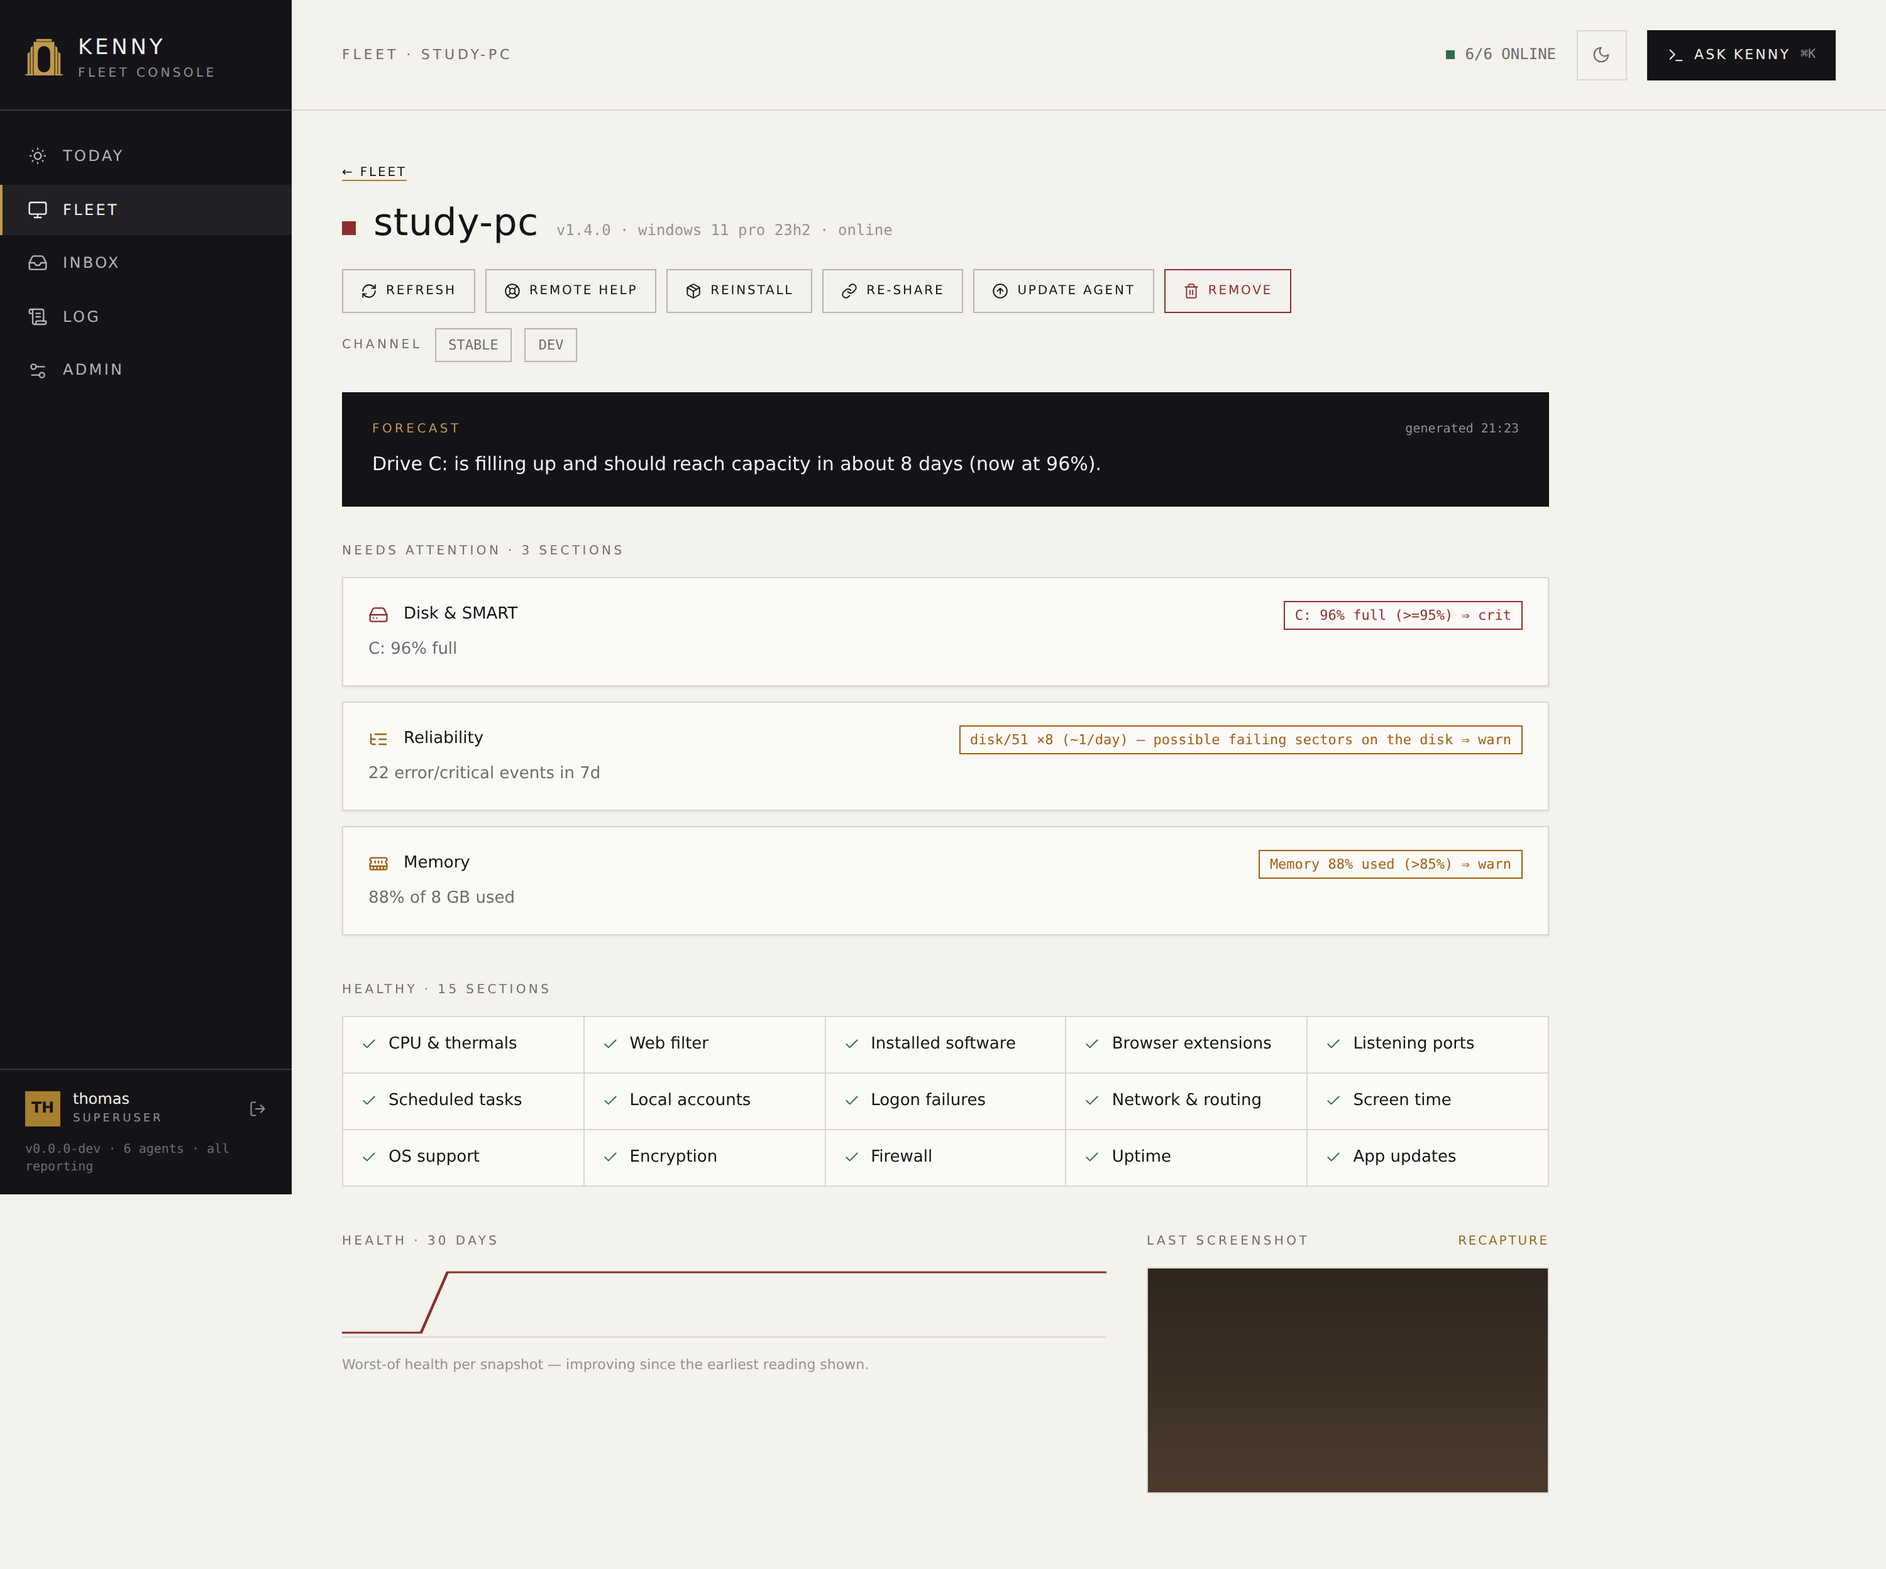
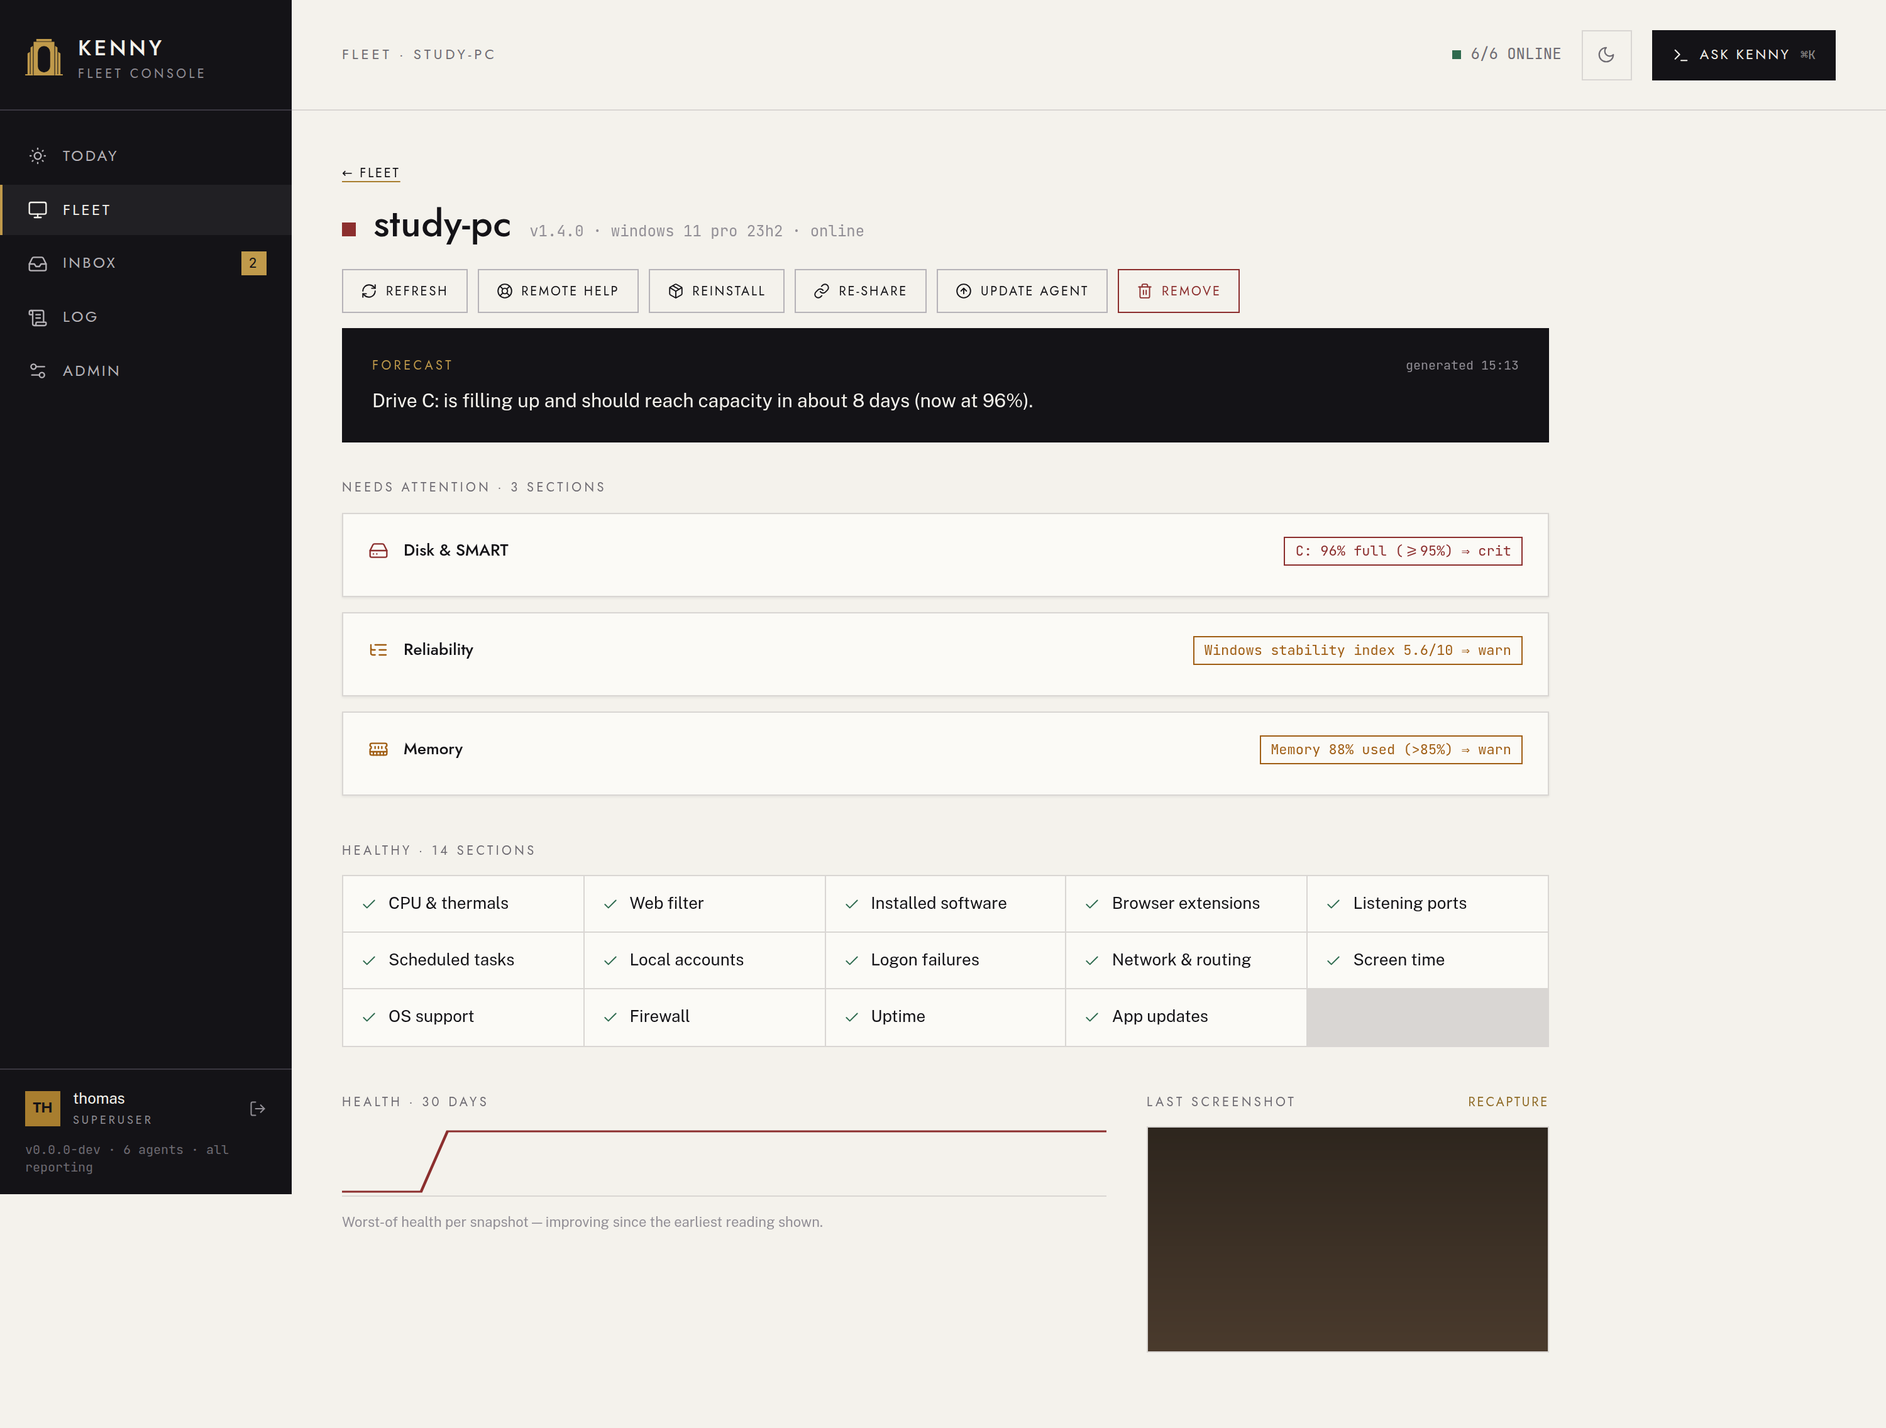
Drop the channel selector from the host page
The release channel is a fleet-operations setting for running a dev test
PC, not a per-host action, and the host page is the view a non-developer
reads. The selector also showed the channel the running binary was built
as rather than the desired channel UPDATE AGENT resolves from, which hid
that a host was set to dev. The desired channel stays settable per agent
in Admin -> Updates, which shows built and desired side by side.

This replaces the host-page `desired_channel` field added in the previous
commit; `GET /api/agent/{id}` is back to its original shape.

Docs: dashboard.md (host actions), setup.md (dev channel now serves the
highest release across stable and dev); host and reliability screenshots
regenerated.

Claude-Session: https://claude.ai/code/session_014MvYUfoKfMGc2bQbjZqdYJ

diff --git a/kenny-web/src/views/host/ActionRow.tsx b/kenny-web/src/views/host/ActionRow.tsx
@@ -5,7 +5,7 @@ import { api } from '../../api/client'
 import type { Me } from '../../api/types'
 import Modal from '../../components/Modal/Modal'
 import { RefreshCw, LifeBuoy, Package, Link as LinkIcon, ArrowUpCircle, Trash2, X, ICON_STROKE_WIDTH } from '../../components/icons'
-import { useRefreshAgent, useRemoteHelp, useUpdateAgent, useRemoveAgent, useSetChannel, useShareLink } from './api'
+import { useRefreshAgent, useRemoteHelp, useUpdateAgent, useRemoveAgent, useShareLink } from './api'
 import { toShareOs } from './format'
 import type { ShareLinkResult } from './types'
 import styles from './ActionRow.module.css'
@@ -19,29 +19,25 @@ export interface ActionRowProps {
    * the reinstall link so the operator doesn't fall back to `uname -m`
    * auto-detection for a box that already told us its arch. */
   arch?: string
-  /** The desired channel — what UPDATE AGENT installs from, and what the
-   * selector highlights. */
-  channel?: string
-  /** What the running binary was built as (`meta.channel`). */
-  builtChannel?: string
 }
 
 /**
  * The host action button row: REFRESH, REMOTE HELP, REINSTALL, RE-SHARE,
- * UPDATE AGENT, REMOVE, and the stable/dev channel selector.
+ * UPDATE AGENT and REMOVE. The release channel is set in Admin → Updates, not
+ * here: it is a fleet-operations setting, not a per-host action.
  *
  * Only REFRESH and REMOTE HELP floor at `user` server-side
  * (`/api/agent/{id}/refresh`, `/api/agent/{id}/remotehelp`, both `scoped`).
  * Everything else is operator+: `/api/agents/{id}/installer` and
- * `/api/agents/share-link` (`distribution.py`), `/api/agents/{id}/update` and
- * `/api/agent/{id}/channel` (`op_scoped`), and `DELETE /api/agent/{id}` (`op`).
+ * `/api/agents/share-link` (`distribution.py`), `/api/agents/{id}/update`
+ * (`op_scoped`), and `DELETE /api/agent/{id}` (`op`).
  * So a scoped `user` sees the first two and nothing else — this list mirrors
  * those `min_role` values, and `ActionRow.test.tsx` fails if the two drift.
  * Hiding is a courtesy, not the boundary: the server refuses regardless. But a
  * REMOVE button that offers to purge a host and is guaranteed to 403 is worse
  * than no button at all.
  */
-export default function ActionRow({ agentId, os, arch, channel, builtChannel }: ActionRowProps) {
+export default function ActionRow({ agentId, os, arch }: ActionRowProps) {
   const navigate = useNavigate()
   const [message, setMessage] = useState<{ text: string; error: boolean } | null>(null)
   const [confirmRemove, setConfirmRemove] = useState(false)
@@ -60,7 +56,6 @@ export default function ActionRow({ agentId, os, arch, channel, builtChannel }: 
   const remoteHelp = useRemoteHelp(agentId)
   const update = useUpdateAgent(agentId)
   const remove = useRemoveAgent()
-  const setChannel = useSetChannel(agentId)
   const shareLink = useShareLink(agentId)
 
   function doRefresh() {
@@ -166,26 +161,6 @@ export default function ActionRow({ agentId, os, arch, channel, builtChannel }: 
       </div>
 
       {message && <p className={`${styles.message}${message.error ? ` ${styles.messageError}` : ''}`}>{message.text}</p>}
-
-      {isOperator && (
-        <div className={styles.channelRow}>
-          <span className={styles.channelLabel}>CHANNEL</span>
-          {(['stable', 'dev'] as const).map((c) => (
-            <button
-              key={c}
-              type="button"
-              className={`${styles.channelButton}${channel === c ? ` ${styles.channelActive}` : ''}`}
-              disabled={setChannel.isPending}
-              onClick={() => setChannel.mutate(c)}
-            >
-              {c.toUpperCase()}
-            </button>
-          ))}
-          {builtChannel && channel && builtChannel !== channel && (
-            <span className={styles.channelNote}>running a {builtChannel} build</span>
-          )}
-        </div>
-      )}
 
       <Modal open={confirmRemove} onClose={() => setConfirmRemove(false)} labelledBy="remove-host-title" width={440}>
         <div className={styles.modalHeader}>

diff --git a/kenny-web/src/views/host/ActionRow.test.tsx b/kenny-web/src/views/host/ActionRow.test.tsx
@@ -36,8 +36,8 @@ beforeEach(() => {
  * This row is the client half of a seam: which buttons it draws must match the
  * `min_role` on the routes behind them. Only REFRESH and REMOTE HELP floor at
  * `user` (`scoped`); everything else is operator+. When only REINSTALL and
- * RE-SHARE were gated, a scoped `user` was offered UPDATE AGENT, the channel
- * selector and a REMOVE button that opens a "this cannot be undone" dialog and
+ * RE-SHARE were gated, a scoped `user` was offered UPDATE AGENT and a REMOVE
+ * button that opens a "this cannot be undone" dialog and
  * then 403s. If either side moves, these lists stop matching.
  */
 const USER_ACTIONS = ['REFRESH', 'REMOTE HELP']
@@ -52,8 +52,6 @@ describe('ActionRow — operator gating', () => {
     await waitFor(() => expect(apiGetMock).toHaveBeenCalledWith('/api/me'))
     for (const label of USER_ACTIONS) expect(screen.getByText(label)).toBeInTheDocument()
     for (const label of OPERATOR_ACTIONS) expect(screen.queryByText(label)).not.toBeInTheDocument()
-    // PUT /api/agent/{id}/channel is operator-scoped too, so the selector goes with them.
-    expect(screen.queryByText('CHANNEL')).not.toBeInTheDocument()
   })
 
   it('offers an operator the whole row', async () => {
@@ -65,29 +63,8 @@ describe('ActionRow — operator gating', () => {
     for (const label of [...USER_ACTIONS, ...OPERATOR_ACTIONS]) {
       expect(screen.getByText(label)).toBeInTheDocument()
     }
-    expect(screen.getByText('CHANNEL')).toBeInTheDocument()
-  })
-})
-
-describe('ActionRow — channel selector', () => {
-  beforeEach(() => {
-    apiGetMock.mockResolvedValue({ user_id: '1', username: 'thomas', role: 'operator', hosts: [], is_shared_token: false })
-  })
-
-  it('highlights the desired channel and names a differing build', async () => {
-    renderRow({ channel: 'dev', builtChannel: 'stable' })
-
-    const dev = await screen.findByRole('button', { name: 'DEV' })
-    expect(dev.className).toMatch(/channelActive/)
-    expect(screen.getByRole('button', { name: 'STABLE' }).className).not.toMatch(/channelActive/)
-    expect(screen.getByText('running a stable build')).toBeInTheDocument()
-  })
-
-  it('says nothing extra when the build matches the desired channel', async () => {
-    renderRow({ channel: 'dev', builtChannel: 'dev' })
-
-    await screen.findByRole('button', { name: 'DEV' })
-    expect(screen.queryByText(/running a/)).not.toBeInTheDocument()
+    // The release channel is Admin → Updates' concern, never a host action.
+    expect(screen.queryByText('CHANNEL')).not.toBeInTheDocument()
   })
 })
 

diff --git a/kenny-web/src/views/FleetHost.test.tsx b/kenny-web/src/views/FleetHost.test.tsx
@@ -92,37 +92,6 @@ beforeEach(() => {
 })
 
 /**
- * Joined seam with `api_agent`'s `desired_channel` (pinned server-side by
- * `test_trigger_update_uses_agent_desired_channel`): the selector must show the
- * channel UPDATE AGENT installs from, not the one the running binary was built
- * as. Showing the built channel let a host read STABLE while an update pushed
- * a dev build.
- */
-describe('FleetHost — channel selector', () => {
-  it('shows the desired channel, not the built one', async () => {
-    apiGetMock.mockImplementation((url: string) => {
-      if (url === '/api/me') {
-        return Promise.resolve({ user_id: '1', username: 'thomas', role: 'operator', hosts: [], is_shared_token: false })
-      }
-      if (url.startsWith('/api/agent/')) {
-        return Promise.resolve({
-          ...AGENT_DETAIL,
-          meta: { ...AGENT_DETAIL.meta, channel: 'stable' },
-          desired_channel: 'dev',
-        })
-      }
-      return Promise.resolve({})
-    })
-
-    renderAt('/fleet/crit-pc', null)
-
-    const dev = await screen.findByRole('button', { name: 'DEV' })
-    expect(dev.className).toMatch(/channelActive/)
-    expect(screen.getByText('running a stable build')).toBeInTheDocument()
-  })
-})
-
-/**
  * Joined seam: the `target` the server puts on a flagged-section row and the
  * host page's reading of `?section=` (`FleetHost`) have to agree, or a click
  * on a flagged section lands the reader on the machine and leaves them to find

diff --git a/kenny-web/src/views/host/ActionRow.module.css b/kenny-web/src/views/host/ActionRow.module.css
@@ -40,44 +40,6 @@
   color: var(--danger);
 }
 
-.channelRow {
-  display: flex;
-  align-items: center;
-  gap: 10px;
-  margin-bottom: 24px;
-}
-
-.channelLabel {
-  font-family: var(--font-display);
-  font-size: 10px;
-  letter-spacing: var(--track-caps-wide);
-  color: var(--text-muted);
-}
-
-.channelButton {
-  font-family: var(--font-mono);
-  font-size: 11px;
-  padding: 4px 10px;
-  border: 1px solid var(--border-mid);
-  background: transparent;
-  color: var(--text-muted);
-}
-.channelButton:disabled {
-  cursor: default;
-}
-
-.channelNote {
-  font-family: var(--font-mono);
-  font-size: 11px;
-  color: var(--text-muted);
-}
-
-.channelActive {
-  color: var(--text-body);
-  border-color: var(--border-strong);
-  background: var(--surface-inset);
-}
-
 .confirmBody {
   padding: 24px;
 }

diff --git a/kenny-web/src/views/host/api.ts b/kenny-web/src/views/host/api.ts
@@ -53,15 +53,6 @@ export function useUpdateAgent(agentId: string) {
   })
 }
 
-export function useSetChannel(agentId: string) {
-  const invalidate = useInvalidateAgent(agentId)
-  return useMutation({
-    mutationFn: (channel: 'stable' | 'dev') =>
-      api.put<{ ok: boolean }>(`/api/agent/${agentId}/channel`, { channel }),
-    onSuccess: () => invalidate(),
-  })
-}
-
 export function useRemoveAgent() {
   return useMutation({
     mutationFn: (agentId: string) => api.delete<{ ok?: boolean }>(`/api/agent/${agentId}`),

diff --git a/kenny-web/src/views/FleetHost.tsx b/kenny-web/src/views/FleetHost.tsx
@@ -103,13 +103,7 @@ export default function FleetHost() {
         </span>
       </div>
 
-      <ActionRow
-        agentId={data.agent_id}
-        os={data.os}
-        arch={data.meta.arch}
-        channel={data.desired_channel ?? data.meta.channel}
-        builtChannel={data.meta.channel}
-      />
+      <ActionRow agentId={data.agent_id} os={data.os} arch={data.meta.arch} />
 
       <ForecastPanel agentId={data.agent_id} />
 

diff --git a/kenny-web/src/views/host/types.ts b/kenny-web/src/views/host/types.ts
@@ -41,9 +41,6 @@ export interface AgentDetail {
   online: boolean
   os: string
   meta: AgentMeta
-  /** The channel UPDATE AGENT installs from; `meta.channel` is only what the
-   * running binary was built as. Absent from servers that predate it. */
-  desired_channel?: string
   collected_at: string | null
   snapshot: Record<string, RawSection> | null
   health: { overall: Severity; sections: HostSection[] }

diff --git a/kenny-server/tests/test_distribution.py b/kenny-server/tests/test_distribution.py
@@ -642,22 +642,14 @@ def test_trigger_update_uses_agent_desired_channel(tmp_path, monkeypatch):
     async def _noop(_frame):
         return None
 
-    reg.register_signed_async("dev-pc", {"os": "windows", "channel": "stable"}, _noop)
+    reg.register_signed_async("dev-pc", {"os": "windows"}, _noop)
     reg.mark_offline("dev-pc")
     with TestClient(app) as c:
         h = _bearer(app)
-        assert c.get("/api/agent/dev-pc", headers=h).json()["desired_channel"] == "stable"
         # flip this agent's desired channel to dev via the dashboard route
         r = c.put("/api/agent/dev-pc/channel", headers=h, json={"channel": "dev"})
         assert r.status_code == 200, r.text
         assert r.json()["desired_channel"] == "dev"
-
-        # The host page reads the same desired channel the update route
-        # resolves from, not the channel the running binary was built as —
-        # otherwise it shows STABLE while UPDATE AGENT installs a dev build.
-        detail = c.get("/api/agent/dev-pc", headers=h).json()
-        assert detail["desired_channel"] == "dev"
-        assert detail["meta"]["channel"] == "stable"
 
         # 502 (agent offline) not 503 (binary missing) => the dev binary was
         # selected, proving the desired channel drove resolution.

diff --git a/kenny-server/kenny_server/webui/__init__.py b/kenny-server/kenny_server/webui/__init__.py
@@ -609,15 +609,6 @@ def build_api_routes(
                 "online": bool(agent and agent.online),
                 "os": agent_os,
                 "meta": agent.meta if agent else {},
-                # The channel UPDATE AGENT installs from (soll). `meta.channel`
-                # is only what the running binary was built as (ist); the two
-                # differ whenever the channel was switched, or when a dev-channel
-                # host runs a stable release that outranks the last dev build.
-                "desired_channel": (
-                    await update_mgr.get_desired_channel(agent_id)
-                    if update_mgr is not None
-                    else "stable"
-                ),
                 "collected_at": latest["collected_at"] if latest else None,
                 "snapshot": snapshot,
                 "health": await health_for(

diff --git a/kenny-server/kenny_server/update_manager.py b/kenny-server/kenny_server/update_manager.py
@@ -458,11 +458,6 @@ class UpdateManager:
 
         await self.store.set_desired_channel(agent_id, channel)
 
-    async def get_desired_channel(self, agent_id: str) -> str:
-        """Read-side counterpart of :meth:`set_desired_channel`."""
-
-        return await self.store.get_desired_channel(agent_id)
-
     # -- internals ---------------------------------------------------------
 
     async def _apply_to_agent(self, campaign: dict[str, Any], agent: Any) -> None:

diff --git a/docs/setup.md b/docs/setup.md
@@ -372,9 +372,14 @@ tag `v<next-patch>-dev.<run_number>`) via the same shared job body
 against the exact release binary) as a stable tag — nothing about how an artifact is verified
 differs by channel. Because GitHub Releases marks it `prerelease: true`, the stable resolution
 path (`GET /repos/{repo}/releases/latest`) never sees it, so the dev channel cannot affect stable
-agents or the stable server image. The server image also gets a floating `:edge` GHCR tag as a
-convenience `docker pull` alias; nothing server-side resolves or pins against it — detection always
-uses the exact versioned tag + digest.
+agents or the stable server image. The reverse does not hold: the dev channel serves the
+**highest release by semver across both kinds**, so a stable release cut after the last `main`
+push (say `v2.5.0` after `v2.4.1-dev.88`) is what a dev-channel PC gets until the next dev build
+outranks it. A dev-channel PC is never held behind the stable fleet, and it may run a
+stable-built binary, which then reports `channel: stable` while its desired channel stays `dev`.
+The server image also gets a floating `:edge` GHCR tag as a convenience `docker pull` alias;
+nothing server-side resolves or pins against it — detection always uses the exact versioned
+tag + digest.
 
 To run one PC on dev while the rest of the fleet stays stable: set that agent's **desired channel**
 to `dev` in the dashboard (or `POST /api/agents/{id}`), then approve a dev-channel update campaign

diff --git a/docs/dashboard.md b/docs/dashboard.md
@@ -199,8 +199,9 @@ online/offline. Below it, one row of actions:
 - **Remote help** — open Quick Assist on the PC.
 - **Reinstall** — rebuild this PC's installer, rotating its token.
 - **Re-share** — mint a fresh one-time share link for this PC.
-- **Update agent** — push a self-update. An **update channel** selector (stable/dev) sits
-  alongside it — see [Dev channel](setup.md#dev-channel-adr-0048).
+- **Update agent** — push a self-update from this PC's desired release channel. The
+  channel itself is set per agent under **Admin → Updates**, not on the host page — see
+  [Dev channel](setup.md#dev-channel-adr-0048).
 - **Remove** *(operator/superuser only)* — takes the host out of inventory: purges its
   snapshots, events, tokens, keys, web-filter state, and scope assignments. Destructive —
   confirms first. A host still pinned via `KENNY_AGENT_TOKENS` is refused, since it would
